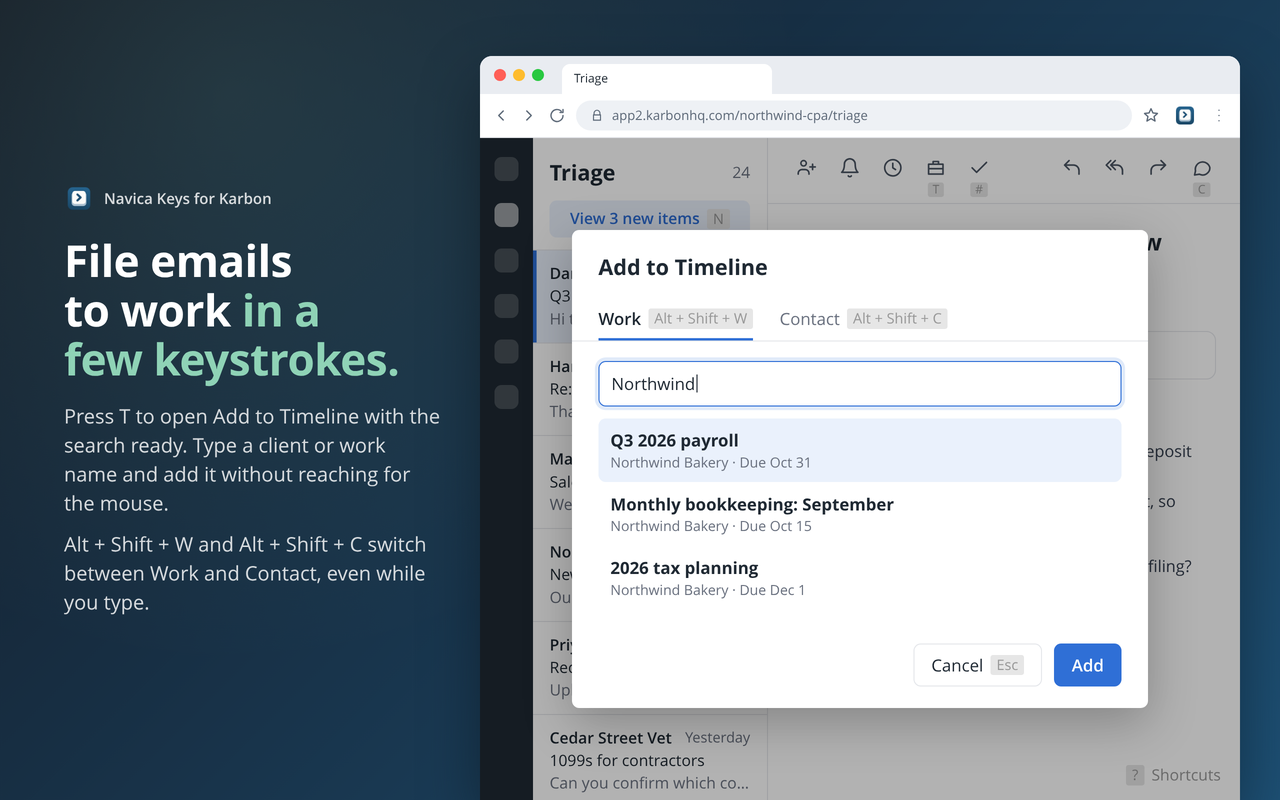
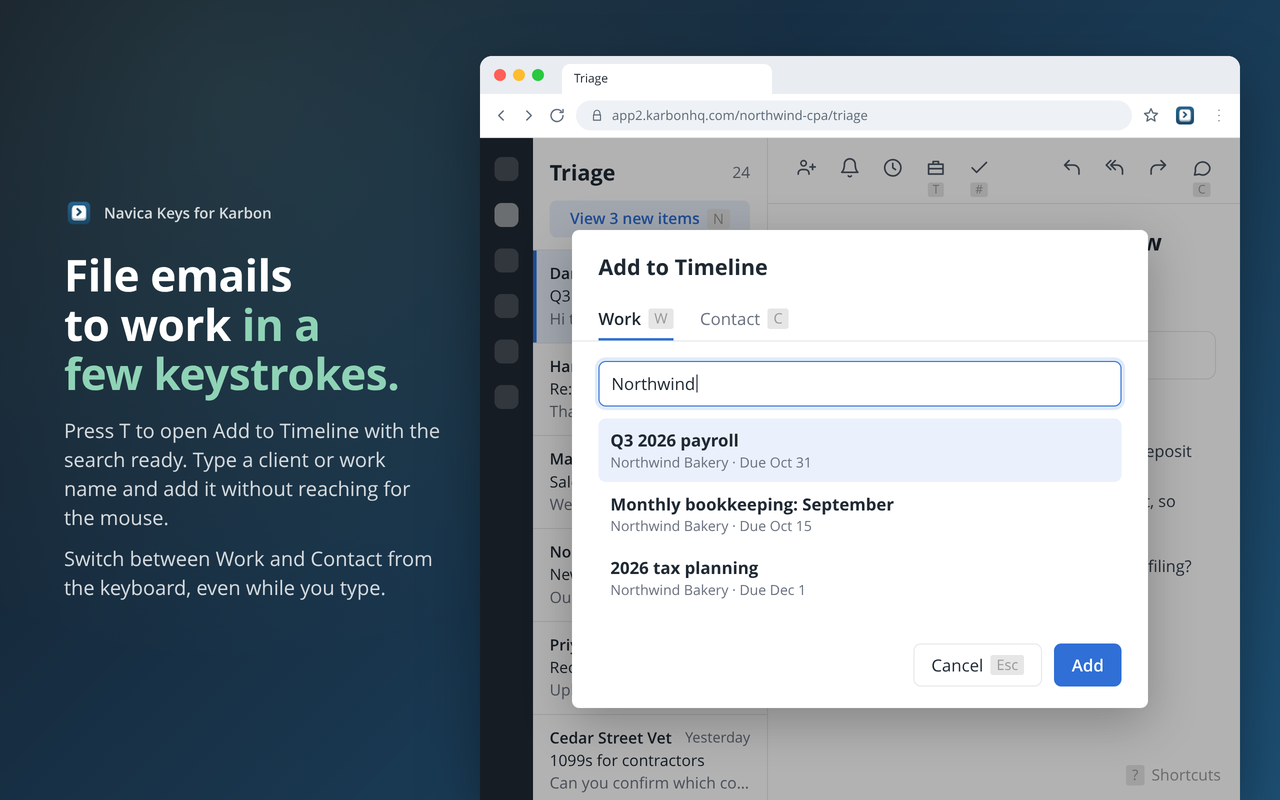
Show plain W and C on the timeline screenshot's tabs

Changed region(s): [[0.0312, 0.2188, 0.3438, 0.7812], [0.5, 0.375, 0.75, 0.4375]]

diff --git a/store/screenshots/shot3-timeline.html b/store/screenshots/shot3-timeline.html
@@ -9,9 +9,9 @@
 <div class="copy"><div class="eyebrow"><img src="../icons/icon128.png" alt="">Navica Keys for Karbon</div>
   <h1>File emails to work <mark>in a few keystrokes.</mark></h1>
   <p>Press T to open Add to Timeline with the search ready. Type a client or work name and add it without reaching for the mouse.</p>
-  <p>Alt + Shift + W and Alt + Shift + C switch between Work and Contact, even while you type.</p>
+  <p>Switch between Work and Contact from the keyboard, even while you type.</p>
 </div>
-<div class="browser" data-tab="Triage" data-url="app2.karbonhq.com/northwind-cpa/triage" data-scene="triage" data-overlay="dialog" data-off="dialogAdd"></div>
+<div class="browser" data-tab="Triage" data-url="app2.karbonhq.com/northwind-cpa/triage" data-scene="triage" data-overlay="dialog" data-off="dialogAdd" data-keys="workTab:w contactTab:c"></div>
 <script src="../src/shared.js"></script>
 <script src="frame.js"></script>
 </body>

diff --git a/store/screenshots/frame.js b/store/screenshots/frame.js
@@ -94,6 +94,8 @@ async function build() {
     const d = b.dataset;
     const ids = (v) => (v || '').split(' ').filter(Boolean);
     const s = shotSettings(ids(d.on), ids(d.off));
+    // Keys shown for a shot only: data-keys="workTab:w contactTab:c".
+    for (const [id, key] of ids(d.keys).map((x) => x.split(':'))) s.shortcuts[id].binding = key;
     const scene = d.scene === 'triage' ? triage(s) + (d.overlay === 'help' ? helpOverlay(s) : d.overlay === 'dialog' ? timelineDialog(s) : '') : '';
     const extra = b.innerHTML;
     b.innerHTML = `
